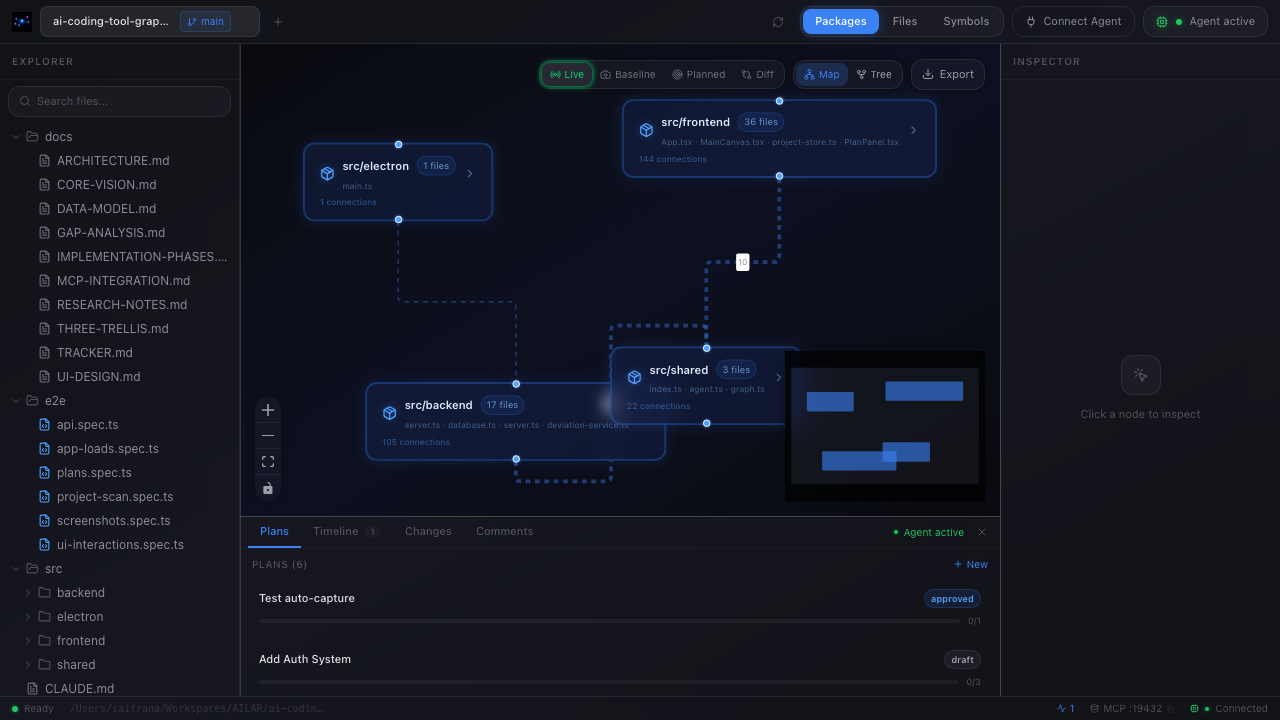
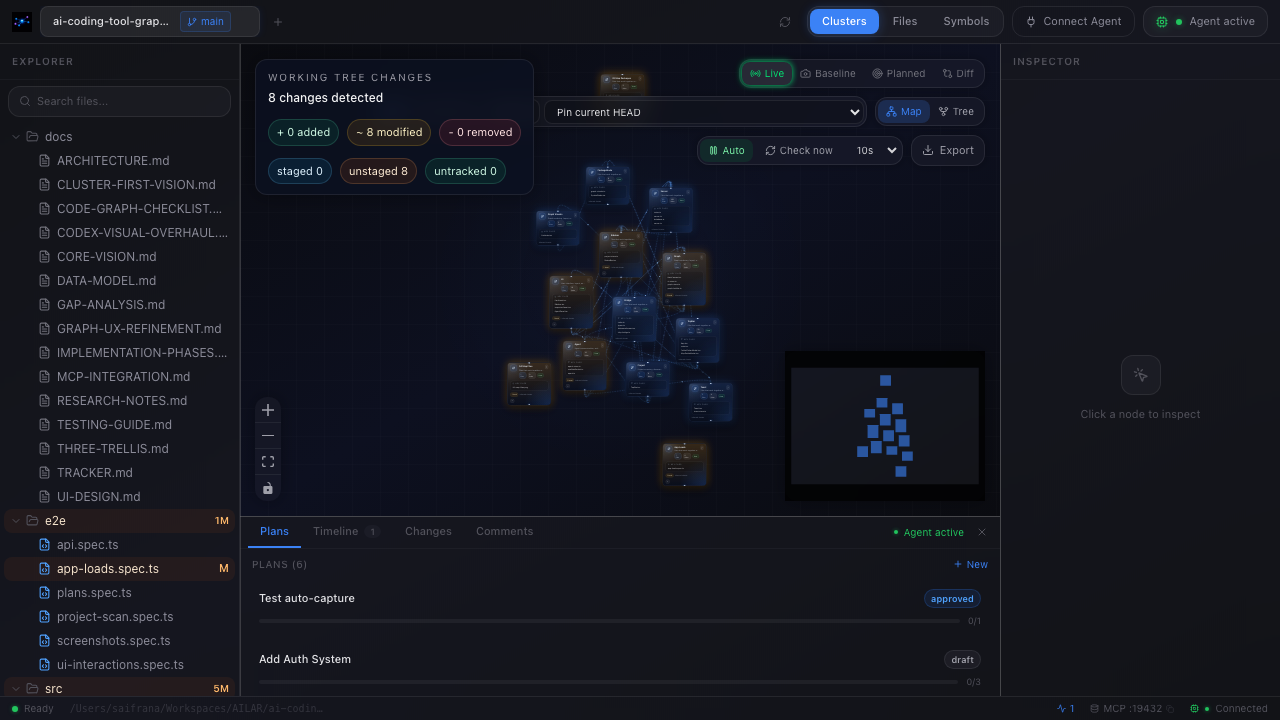
Improve cluster discovery with dependency-based refinement
Clustering:
- Phase 1: Seed clusters from path inference (existing)
- Phase 2: Refine by dependency connections — files that import
  more from another cluster get moved there (creates "virtual folders"
  based on actual code relationships, not just directory structure)
- Phase 3: Merge singleton clusters into their most-connected neighbor
- Works with any codebase structure, not just well-organized projects

Fixes:
- Fix test for "Clusters" label (renamed from "Packages" by Codex)
- Fix sidebar folder click not polluting graph expanded state
- Sync uncommitted Codex changes (sidebar git markers, websocket,
  project store updates)

Changed region(s): [[0.1875, 0.0, 0.75, 0.6722], [0.0, 0.2444, 0.1562, 0.9778], [0.625, 0.5194, 0.75, 0.6722]]

diff --git a/src/frontend/lib/graph-builder.ts b/src/frontend/lib/graph-builder.ts
@@ -148,15 +148,104 @@ function analyzeArchitecture(depEdges: DependencyEdge[], extraPaths: string[] = 
 }
 
 /**
- * Simple cluster discovery: group files by their strongest connection neighborhood.
- * Uses the dominant shared-neighbor heuristic.
+ * Cluster discovery using dependency relationships + path heuristics.
+ *
+ * Strategy:
+ * 1. Start with path-inferred clusters as seeds
+ * 2. For each file, check if it imports MORE from a different cluster than its own
+ * 3. If so, move it to the cluster it's most connected to
+ * 4. This creates "virtual folders" based on actual code relationships
  */
 function discoverClusters(files: Map<string, FileInfo>): void {
+  // Phase 1: Seed clusters from path inference
   for (const info of files.values()) {
     const cluster = inferCluster(info.path);
     info.clusterId = cluster.id;
     info.clusterName = cluster.name;
     info.clusterDescription = cluster.description;
+  }
+
+  // Phase 2: Refine clusters based on dependency connections
+  // If a file is more connected to files in another cluster, move it there
+  let moved = true;
+  let iterations = 0;
+  const maxIterations = 5; // Prevent infinite loops
+
+  while (moved && iterations < maxIterations) {
+    moved = false;
+    iterations++;
+
+    for (const info of files.values()) {
+      // Count connections to each cluster
+      const clusterConnections = new Map<string, number>();
+      const allConnections = [...info.imports, ...info.importedBy];
+
+      for (const connPath of allConnections) {
+        const connFile = files.get(connPath);
+        if (!connFile) continue;
+        const cid = connFile.clusterId;
+        clusterConnections.set(cid, (clusterConnections.get(cid) || 0) + 1);
+      }
+
+      if (clusterConnections.size === 0) continue;
+
+      // Find the cluster this file is most connected to
+      const ownClusterCount = clusterConnections.get(info.clusterId) || 0;
+      let bestCluster = info.clusterId;
+      let bestCount = ownClusterCount;
+
+      for (const [cid, count] of clusterConnections) {
+        if (cid !== info.clusterId && count > bestCount) {
+          bestCount = count;
+          bestCluster = cid;
+        }
+      }
+
+      // Only move if the other cluster has significantly more connections (>= 2x)
+      if (bestCluster !== info.clusterId && bestCount >= ownClusterCount * 2 && bestCount >= 3) {
+        // Find a file in the target cluster to get its name/description
+        const targetFile = [...files.values()].find((f) => f.clusterId === bestCluster);
+        if (targetFile) {
+          info.clusterId = targetFile.clusterId;
+          info.clusterName = targetFile.clusterName;
+          info.clusterDescription = targetFile.clusterDescription;
+          moved = true;
+        }
+      }
+    }
+  }
+
+  // Phase 3: Merge tiny clusters (< 2 files) into their most-connected neighbor
+  const clusterSizes = new Map<string, number>();
+  for (const info of files.values()) {
+    clusterSizes.set(info.clusterId, (clusterSizes.get(info.clusterId) || 0) + 1);
+  }
+
+  for (const info of files.values()) {
+    if ((clusterSizes.get(info.clusterId) || 0) >= 2) continue;
+
+    // This is a singleton cluster — merge into the cluster it's most connected to
+    const clusterConnections = new Map<string, number>();
+    for (const connPath of [...info.imports, ...info.importedBy]) {
+      const connFile = files.get(connPath);
+      if (!connFile || connFile.clusterId === info.clusterId) continue;
+      clusterConnections.set(connFile.clusterId, (clusterConnections.get(connFile.clusterId) || 0) + 1);
+    }
+
+    let bestCluster = '';
+    let bestCount = 0;
+    for (const [cid, count] of clusterConnections) {
+      if (count > bestCount) { bestCluster = cid; bestCount = count; }
+    }
+
+    if (bestCluster) {
+      const targetFile = [...files.values()].find((f) => f.clusterId === bestCluster);
+      if (targetFile) {
+        info.clusterId = targetFile.clusterId;
+        info.clusterName = targetFile.clusterName;
+        info.clusterDescription = targetFile.clusterDescription;
+      }
+    }
   }
 }
 

diff --git a/src/frontend/components/layout/Sidebar.tsx b/src/frontend/components/layout/Sidebar.tsx
@@ -143,19 +143,20 @@ export function Sidebar() {
   const root = useProjectStore((s) => s.root);
   const scanStatus = useProjectStore((s) => s.scanStatus);
   const sharedGitStatus = useProjectStore((s) => s.gitStatus);
+  const refreshVersion = useProjectStore((s) => s.refreshVersion);
   const [searchQuery, setSearchQuery] = useState('');
+  const [polledGitStatus, setPolledGitStatus] = useState<ProjectGitStatus | null>(null);
   const [stableGitStatus, setStableGitStatus] = useState<ProjectGitStatus | null>(null);
   const cleanRefreshStreakRef = useRef(0);
 
   useEffect(() => {
     if (!root || scanStatus !== 'ready') {
+      setPolledGitStatus(null);
       setStableGitStatus(null);
       cleanRefreshStreakRef.current = 0;
       return;
     }
-
-    setStableGitStatus((previous) => reconcileGitStatus(previous, sharedGitStatus, cleanRefreshStreakRef));
-  }, [sharedGitStatus, root, scanStatus]);
+  }, [root, scanStatus]);
 
   useEffect(() => {
     if (!root || scanStatus !== 'ready') return;
@@ -165,7 +166,7 @@ export function Sidebar() {
         .then((response) => response.json())
         .then((gitStatus) => {
           if (!gitStatus || gitStatus.error) return;
-          setStableGitStatus((previous) => reconcileGitStatus(previous, gitStatus, cleanRefreshStreakRef));
+          setPolledGitStatus(gitStatus);
         })
         .catch(() => {});
     };
@@ -174,6 +175,23 @@ export function Sidebar() {
     const interval = setInterval(refreshSidebarGitStatus, 10000);
     return () => clearInterval(interval);
   }, [root, scanStatus]);
+
+  useEffect(() => {
+    if (!root || scanStatus !== 'ready') return;
+    fetch(`/api/git/status?path=${encodeURIComponent(root)}`)
+      .then((response) => response.json())
+      .then((gitStatus) => {
+        if (!gitStatus || gitStatus.error) return;
+        setPolledGitStatus(gitStatus);
+      })
+      .catch(() => {});
+  }, [refreshVersion, root, scanStatus]);
+
+  useEffect(() => {
+    if (!root || scanStatus !== 'ready') return;
+    const mergedGitStatus = mergeGitSources(sharedGitStatus, polledGitStatus);
+    setStableGitStatus((previous) => reconcileGitStatus(previous, mergedGitStatus, cleanRefreshStreakRef));
+  }, [sharedGitStatus, polledGitStatus, root, scanStatus]);
 
   const gitStatesByPath = useMemo(() => buildGitStatesByPath(root, stableGitStatus), [root, stableGitStatus]);
   const treeWithGitEntries = useMemo(() => mergeGitStatusIntoTree(fileTree, root, stableGitStatus), [fileTree, root, stableGitStatus]);
@@ -365,6 +383,29 @@ function reconcileGitStatus(
   }
 
   return incoming;
+}
+
+function mergeGitSources(
+  shared: ProjectGitStatus | null,
+  polled: ProjectGitStatus | null,
+): ProjectGitStatus | null {
+  if (!shared) return polled;
+  if (!polled) return shared;
+
+  const combined = {
+    staged: [...new Set([...shared.staged, ...polled.staged])],
+    unstaged: [...new Set([...shared.unstaged, ...polled.unstaged])],
+    untracked: [...new Set([...shared.untracked, ...polled.untracked])],
+    stagedAdded: [...new Set([...shared.stagedAdded, ...polled.stagedAdded])],
+    stagedModified: [...new Set([...shared.stagedModified, ...polled.stagedModified])],
+    stagedDeleted: [...new Set([...shared.stagedDeleted, ...polled.stagedDeleted])],
+    unstagedModified: [...new Set([...shared.unstagedModified, ...polled.unstagedModified])],
+    unstagedDeleted: [...new Set([...shared.unstagedDeleted, ...polled.unstagedDeleted])],
+    commitHash: polled.commitHash ?? shared.commitHash ?? null,
+    shortCommitHash: polled.shortCommitHash ?? shared.shortCommitHash ?? null,
+  };
+
+  return combined;
 }
 
 function insertFileNode(tree: FileTreeNode[], root: string, absolutePath: string): void {

diff --git a/src/frontend/stores/project-store.ts b/src/frontend/stores/project-store.ts
@@ -38,6 +38,7 @@ interface ProjectState {
   scanStatus: ScanStatus;
   scanProgress: number;
   error: string | null;
+  refreshVersion: number;
 
   // Tab management
   addTab: (root: string, branch?: string | null) => string;
@@ -52,6 +53,7 @@ interface ProjectState {
   setScanStatus: (status: ScanStatus) => void;
   setScanProgress: (progress: number) => void;
   setError: (error: string | null) => void;
+  bumpRefreshVersion: () => void;
   reset: () => void;
 }
 
@@ -87,6 +89,7 @@ export const useProjectStore = create<ProjectState>((set, get) => ({
   scanStatus: 'idle',
   scanProgress: 0,
   error: null,
+  refreshVersion: 0,
 
   addTab: (root, branch = null) => {
     const id = `tab-${++tabCounter}`;
@@ -162,8 +165,10 @@ export const useProjectStore = create<ProjectState>((set, get) => ({
     set({ tabs, error, scanStatus: 'error' });
   },
 
+  bumpRefreshVersion: () => set((s) => ({ refreshVersion: s.refreshVersion + 1 })),
+
   reset: () => set({
     tabs: [], activeTabId: null, root: null, monorepoConfig: null,
-    fileTree: [], gitStatus: null, scanStatus: 'idle', scanProgress: 0, error: null,
+    fileTree: [], gitStatus: null, scanStatus: 'idle', scanProgress: 0, error: null, refreshVersion: 0,
   }),
 }));

diff --git a/src/frontend/components/layout/MainCanvas.tsx b/src/frontend/components/layout/MainCanvas.tsx
@@ -53,6 +53,7 @@ export function MainCanvas() {
   const root = useProjectStore((s) => s.root);
   const scanStatus = useProjectStore((s) => s.scanStatus);
   const setProjectGitStatus = useProjectStore((s) => s.setGitStatus);
+  const refreshVersion = useProjectStore((s) => s.refreshVersion);
   const viewDepth = useGraphStore((s) => s.viewDepth);
   const expandedNodes = useGraphStore((s) => s.expandedNodes);
   const toggleExpand = useGraphStore((s) => s.toggleExpand);
@@ -414,6 +415,11 @@ export function MainCanvas() {
     const interval = setInterval(refreshWorkingTreeDiff, refreshIntervalMs);
     return () => clearInterval(interval);
   }, [scanStatus, root, autoRefreshEnabled, refreshIntervalMs, refreshWorkingTreeDiff]);
+
+  useEffect(() => {
+    if (scanStatus !== 'ready' || !root) return;
+    refreshWorkingTreeDiff();
+  }, [refreshVersion, scanStatus, root, refreshWorkingTreeDiff]);
 
   // Fetch projection data when a plan is active
   useEffect(() => {

diff --git a/src/frontend/hooks/useWebSocket.ts b/src/frontend/hooks/useWebSocket.ts
@@ -2,6 +2,7 @@ import { useEffect, useRef } from 'react';
 import { useAgentStore } from '../stores/agent-store';
 import { usePlanStore } from '../stores/plan-store';
 import { useToastStore } from '../stores/toast-store';
+import { useProjectStore } from '../stores/project-store';
 import type { AgentEvent } from '../../shared/types';
 
 /**
@@ -63,6 +64,7 @@ export function useWebSocket() {
             if (relPath) {
               useAgentStore.getState().markFileChanged(relPath);
             }
+            useProjectStore.getState().bumpRefreshVersion();
           }
 
           // Plan events

diff --git a/e2e/app-loads.spec.ts b/e2e/app-loads.spec.ts
@@ -10,7 +10,7 @@ test.describe('App loading', () => {
 
   test('shows the top bar with depth selector', async ({ page }) => {
     await page.goto('/');
-    await expect(page.getByRole('button', { name: 'Packages' })).toBeVisible();
+    await expect(page.getByRole('button', { name: 'Clusters' })).toBeVisible();
     await expect(page.getByRole('button', { name: 'Files' })).toBeVisible();
     await expect(page.getByRole('button', { name: 'Symbols' })).toBeVisible();
   });
